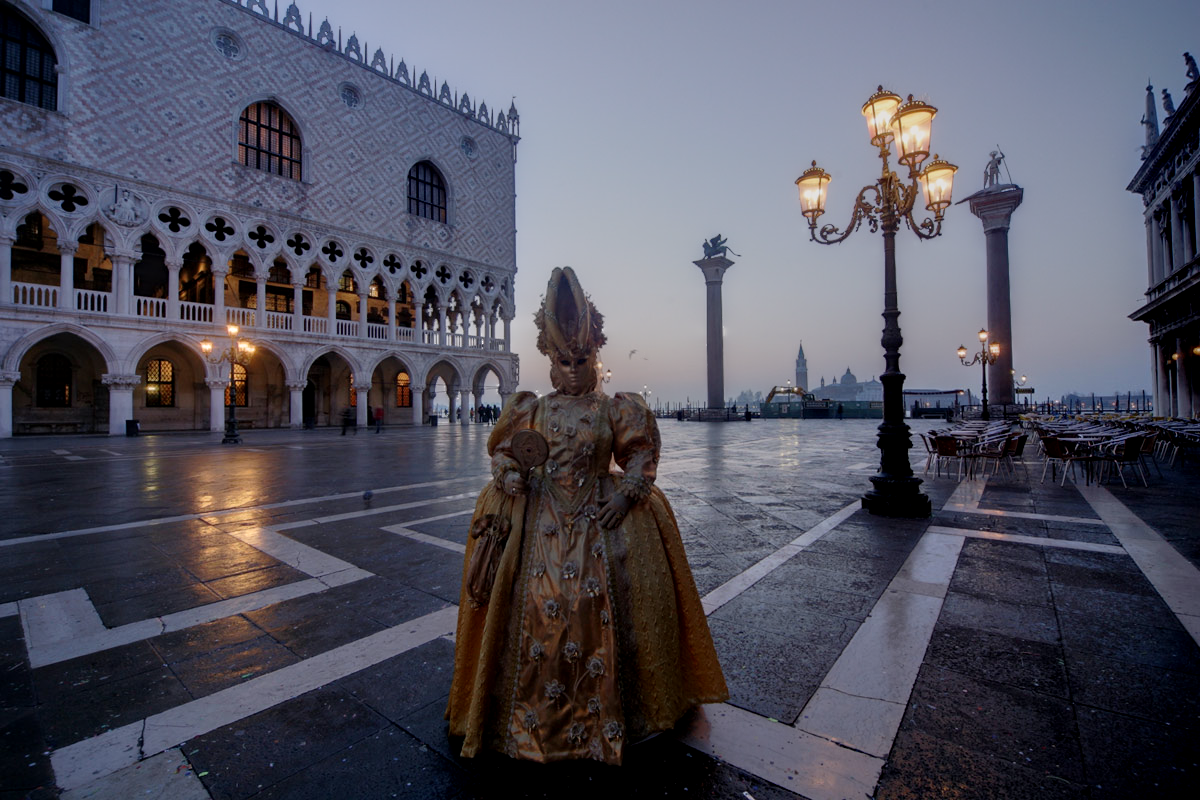
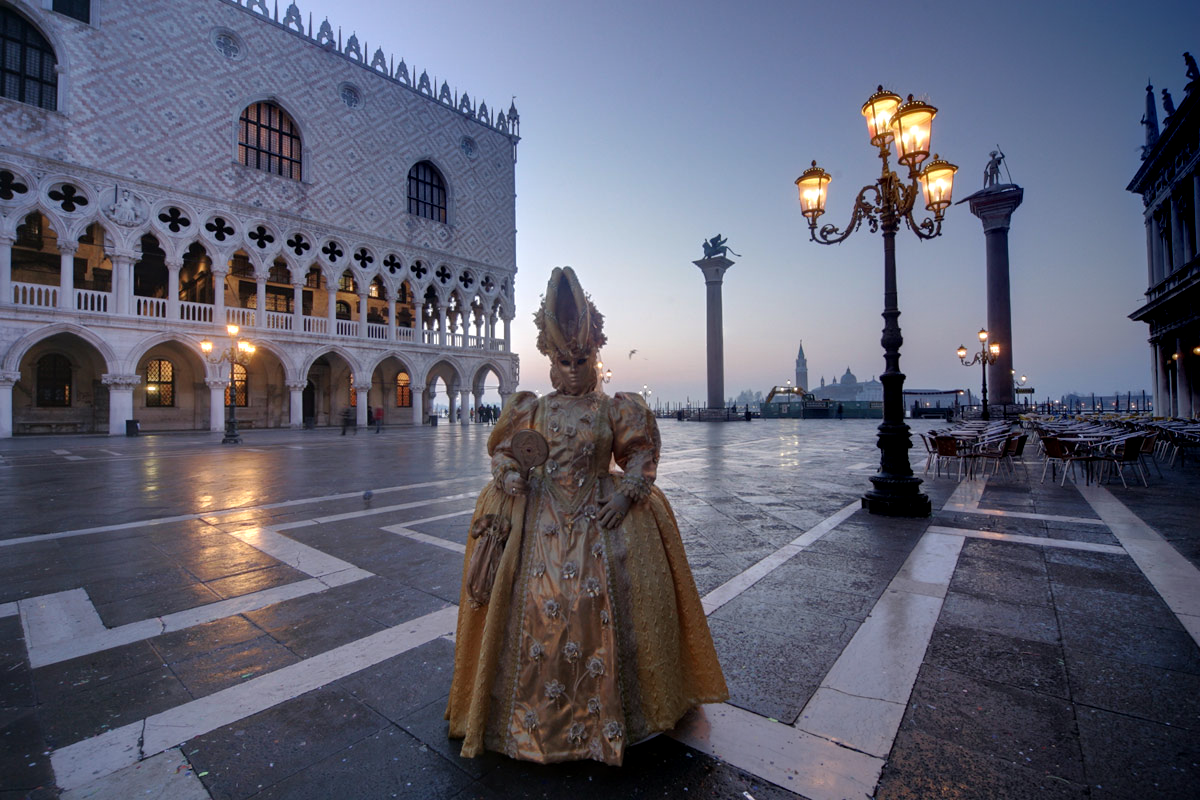
[bugfix] weight map norm to one & dump weightmap & abs(lapmap)

diff --git a/exposure_fusion/src/calc_weight.cpp b/exposure_fusion/src/calc_weight.cpp
@@ -1,5 +1,7 @@
 #include "calc_weight.h"
 
+extern std::string rootDir;
+
 // calc well-exposedness with exponential weight
 float getExponentialWeight(float val, float mean, float sigma){
     float weight = exp(-1.f * pow(val - mean, 2) / (2.f * pow(sigma, 2)));
@@ -28,8 +30,8 @@ cv::Mat calcContrastMap(cv::Mat img, int kernelSize){
     cv::cvtColor(img, imgGray, cv::COLOR_RGB2GRAY);
     // GaussianBlur(imgGray, imgGray, cv::Size(3, 3), 0);
     cv::Laplacian(imgGray, lapMap, -1, 1);
+    lapMap = cv::abs(lapMap);
     cv::boxFilter(lapMap, conMap, -1, cv::Size(kernelSize, kernelSize), cv::Point(-1, -1), false);
-    conMap = cv::abs(conMap);
     double minV, maxV;
     cv::minMaxLoc(conMap, &minV, &maxV);
     conMap = (conMap - (float)minV) / ((float)maxV - (float)minV);
@@ -87,8 +89,33 @@ std::vector<cv::Mat> getMergeWeights(std::vector<cv::Mat> imgs, ExpoFusionConfig
     for(idx = 0; idx < weightMaps.size(); idx++){
         weightSum += weightMaps.at(idx);
     }
+
+    double minV, maxV;
+    cv::minMaxLoc(weightSum, &minV, &maxV);
+    printf("[getMergeWeights] original weightSum min %lf, max %lf \n", minV, maxV);
+
+    cv::Mat tmp_f, tmp_8u;
     for(idx = 0; idx < weightMaps.size(); idx++){
         weightMaps.at(idx) = weightMaps.at(idx) / (weightSum + 1e-8f);
+        // // visualize weight maps
+        // weightMaps.at(idx).convertTo(tmp_f, CV_32FC3, 255.f);
+        // cv::cvtColor(tmp_f, tmp_8u, cv::COLOR_GRAY2RGB);
+        // std::string dstPath = rootDir + "/weight_" + std::to_string(idx) + ".png";
+        // cv::imwrite(dstPath, tmp_8u);
+    }
+
+    // 2nd weight normalization to reduce calc error
+    for(idx = 0; idx < weightMaps.size(); idx++){
+        weightSum += weightMaps.at(idx);
+    }
+
+    for(idx = 0; idx < weightMaps.size(); idx++){
+        weightMaps.at(idx) = weightMaps.at(idx) / (weightSum);
+        // visualize weight maps
+        weightMaps.at(idx).convertTo(tmp_f, CV_32FC3, 255.f);
+        cv::cvtColor(tmp_f, tmp_8u, cv::COLOR_GRAY2RGB);
+        std::string dstPath = rootDir + "/weight_" + std::to_string(idx) + ".png";
+        cv::imwrite(dstPath, tmp_8u);
     }
 
     return weightMaps;

diff --git a/exposure_fusion/src/expo_fusion.cpp b/exposure_fusion/src/expo_fusion.cpp
@@ -4,13 +4,13 @@
 
 void initExpoFusionConfig(ExpoFusionConfig &config){
 
-    config.pyrLevel = 10;
+    config.pyrLevel = 9;
 
     config.saturationIndex = 1.f;
     config.contrastIndex = 1.f;
     config.wellExpoIndex = 1.f;
 
-    config.contrastKernelSize = 3;
+    config.contrastKernelSize = 11;
     config.wellExpoMean = 0.5f;
     config.wellExpoSigma = 0.2f;
 }
@@ -31,8 +31,7 @@ cv::Mat expoFusion(std::vector<cv::Mat> images, ExpoFusionConfig config){
         // merge using gaussian pyr of weights and laplacian pyr of images
         for(int layer = 0; layer < config.pyrLevel; layer ++){
             curWeight = curWeightPyr.at(layer);
-            cv::Mat tmp3c[] = {curWeight, curWeight, curWeight};
-            cv::merge(tmp3c, 3, curWeight3c);
+            cv::cvtColor(curWeight, curWeight3c, cv::COLOR_GRAY2RGB);
             curLap = curLapPyr.at(layer);
             if (0 == i){
                 outputPyr.push_back(curWeight3c.mul(curLap));
@@ -42,7 +41,6 @@ cv::Mat expoFusion(std::vector<cv::Mat> images, ExpoFusionConfig config){
             }
             double minw, maxw;
             cv::minMaxLoc(outputPyr.at(layer), &minw, &maxw);
-            // cv::minMaxLoc(curLap, &minw, &maxw);
             printf("[expoFusion] imgIdx=%d, layerIdx=%d, size=%dx%d, min=%lf, max=%lf \n", i, layer, outputPyr.at(layer).rows, outputPyr.at(layer).cols, minw, maxw);
         }
         printf("[expoFusion] the %dth image fused. \n", i);

diff --git a/main.cpp b/main.cpp
@@ -5,6 +5,13 @@
 #include "exposure_fusion/include/calc_weight.h"
 #include "exposure_fusion/include/expo_fusion.h"
 
+std::string rootDir;
+
+std::string dirnameOf(const std::string& fname){
+    size_t pos = fname.find_last_of("\\/");
+    return (std::string::npos == pos) ? "" : fname.substr(0, pos);
+}
+
 int main(int argc, char** argv)
 {
     if (argc < 3) {
@@ -15,6 +22,7 @@ int main(int argc, char** argv)
     std::vector<std::string> allPaths;
     allPaths.assign(argv + 1, argv + argc);
     printf("[main] num of exposures : %d \n", (int)allPaths.size());
+    rootDir = dirnameOf(dirnameOf(allPaths.at(0))) + "/result";
 
     std::vector<cv::Mat> images_f;
     cv::Mat tmpImg;
@@ -44,7 +52,8 @@ int main(int argc, char** argv)
     fusedImage.convertTo(fusedImage_8u, CV_8UC3, 255.f);
     cv::minMaxLoc(fusedImage_8u, &minw, &maxw);
     printf("[main] saved uint8 image max %d min %d \n", (int)maxw, (int)minw);
-    cv::imwrite("../test_data/result/fused_image.png", fusedImage_8u);
+    std::string dstPath = rootDir + "/fused_image.png";
+    cv::imwrite(dstPath, fusedImage_8u);
 
     // const std::string windowName = "fused image";
     // cv::namedWindow(windowName, cv::WINDOW_AUTOSIZE);
